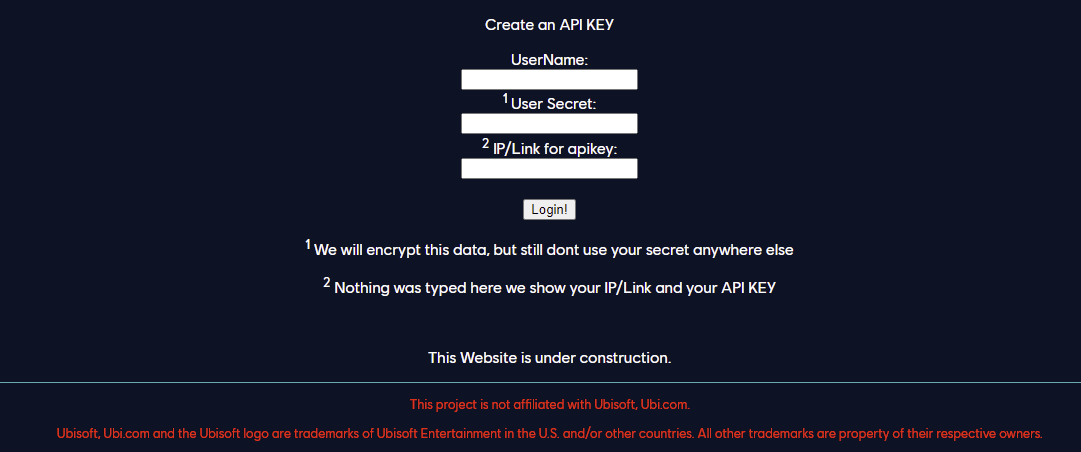
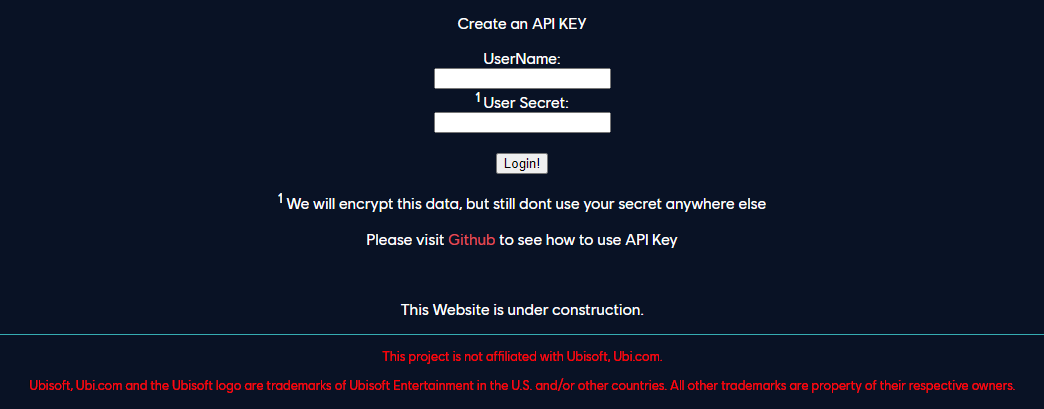
Patch 1 (#1)
* Delete reqbin directory

* Delete apikey directory

* Add files via upload

* Update README.md

Changed region(s): [[0.2759, 0.1174, 0.7356, 0.6748], [0.0, 0.7335, 1.0, 0.9682], [0.4291, 0.0293, 0.5824, 0.088]]

diff --git a/README.md b/README.md
@@ -39,5 +39,4 @@ Just enter your credentians again and you get the same key!
 # Reqbin
 You can use your Key,Name,Secret on Reqbin:\
 \
-![Six](https://raw.githubusercontent.com/UplayDB/WebAPIDocs/main/reqbin/6.png "Six")
-![Seven](https://raw.githubusercontent.com/UplayDB/WebAPIDocs/main/reqbin/7.png "Seven")
+![Reqbin1](https://raw.githubusercontent.com/UplayDB/WebAPIDocs/main/reqbin/reqbin1.png "Reqbin1")
